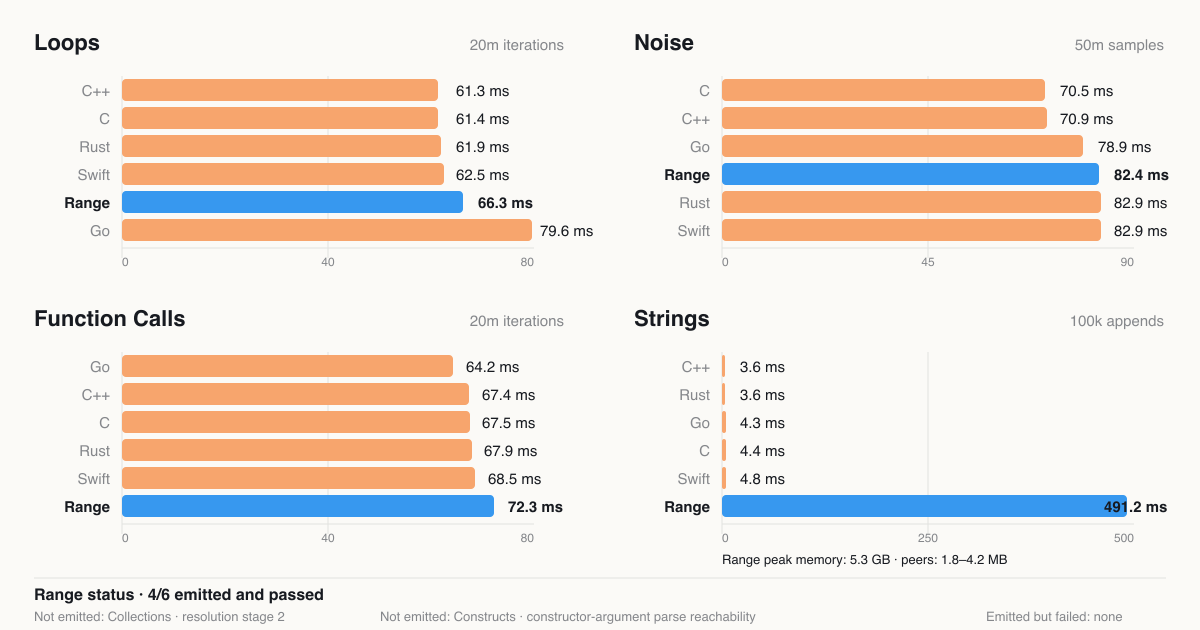
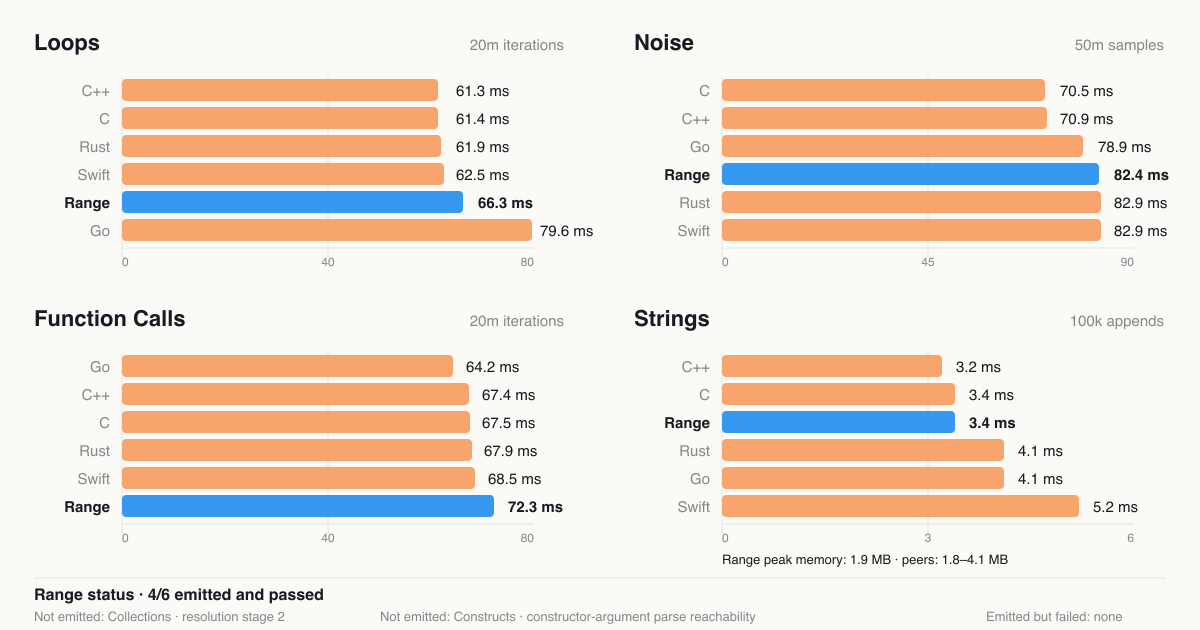
Update verified string performance

Changed region(s): [[0.555, 0.5429, 0.9867, 0.8444], [0.7092, 0.8746, 0.8325, 0.9048], [0.925, 0.8444, 0.9558, 0.8746]]

diff --git a/Website/app/page.tsx b/Website/app/page.tsx
@@ -54,16 +54,16 @@ const benchmarks: Benchmark[] = [
   {
     name: "Strings",
     scale: "100k appends",
-    axisMax: 500,
+    axisMax: 6,
     results: [
-      { language: "C++", milliseconds: 3.6 },
-      { language: "Rust", milliseconds: 3.6 },
-      { language: "Go", milliseconds: 4.3 },
-      { language: "C", milliseconds: 4.4 },
-      { language: "Swift", milliseconds: 4.8 },
-      { language: "Range", milliseconds: 491.2 },
+      { language: "C++", milliseconds: 3.2 },
+      { language: "C", milliseconds: 3.4 },
+      { language: "Range", milliseconds: 3.4 },
+      { language: "Rust", milliseconds: 4.1 },
+      { language: "Go", milliseconds: 4.1 },
+      { language: "Swift", milliseconds: 5.2 },
     ],
-    note: "Range peak memory: 5.3 GB · peers: 1.8–4.2 MB",
+    note: "Range peak memory: 1.9 MB · peers: 1.8–4.1 MB",
   },
 ];
 
